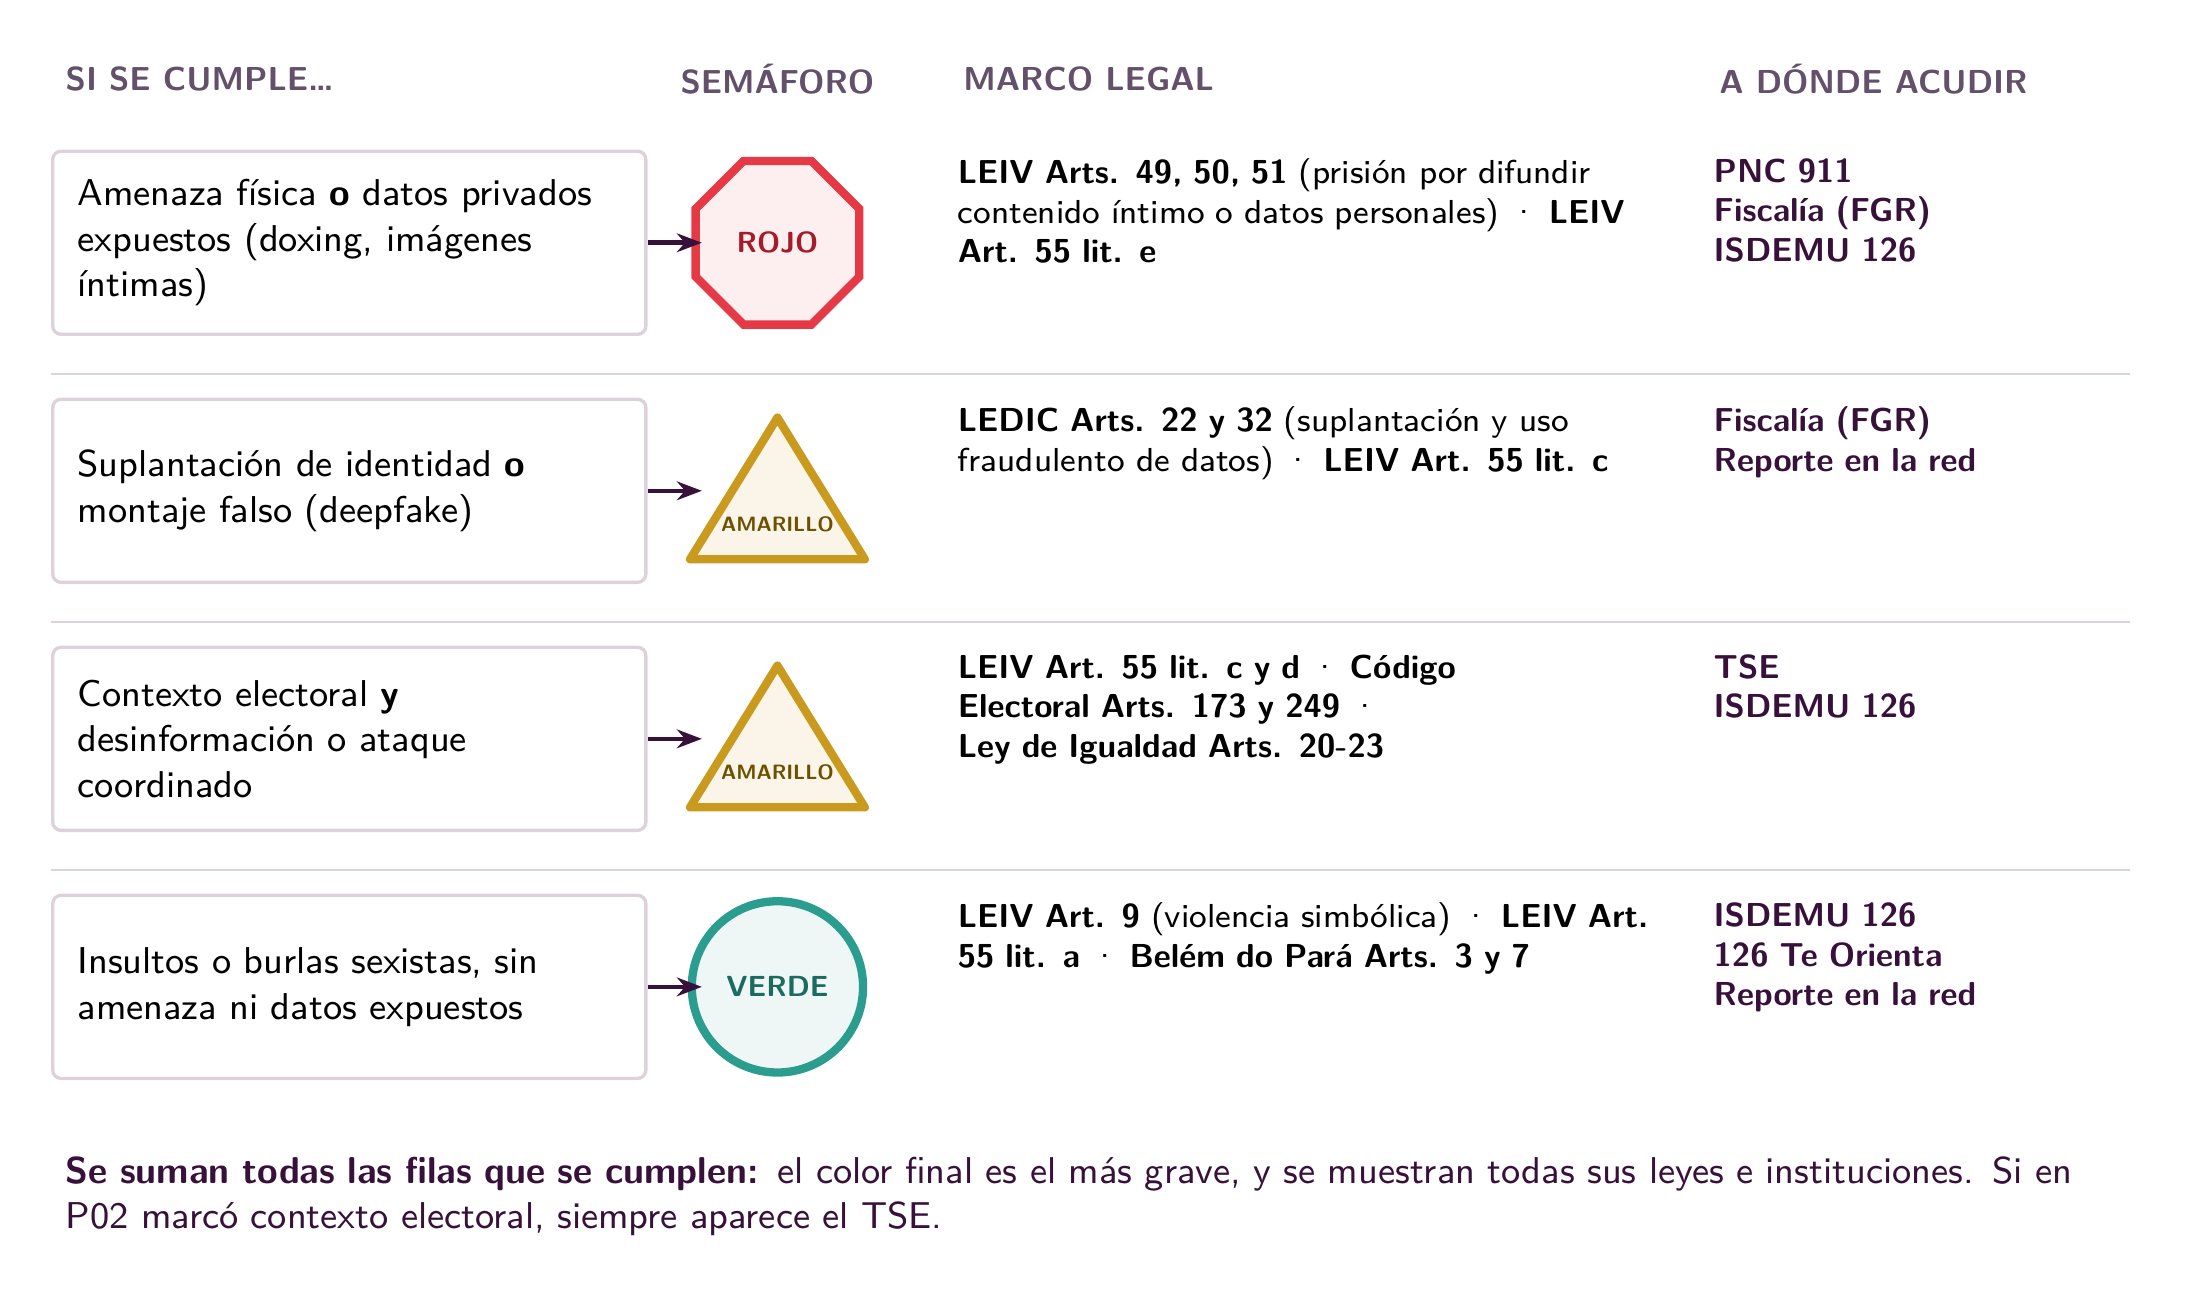
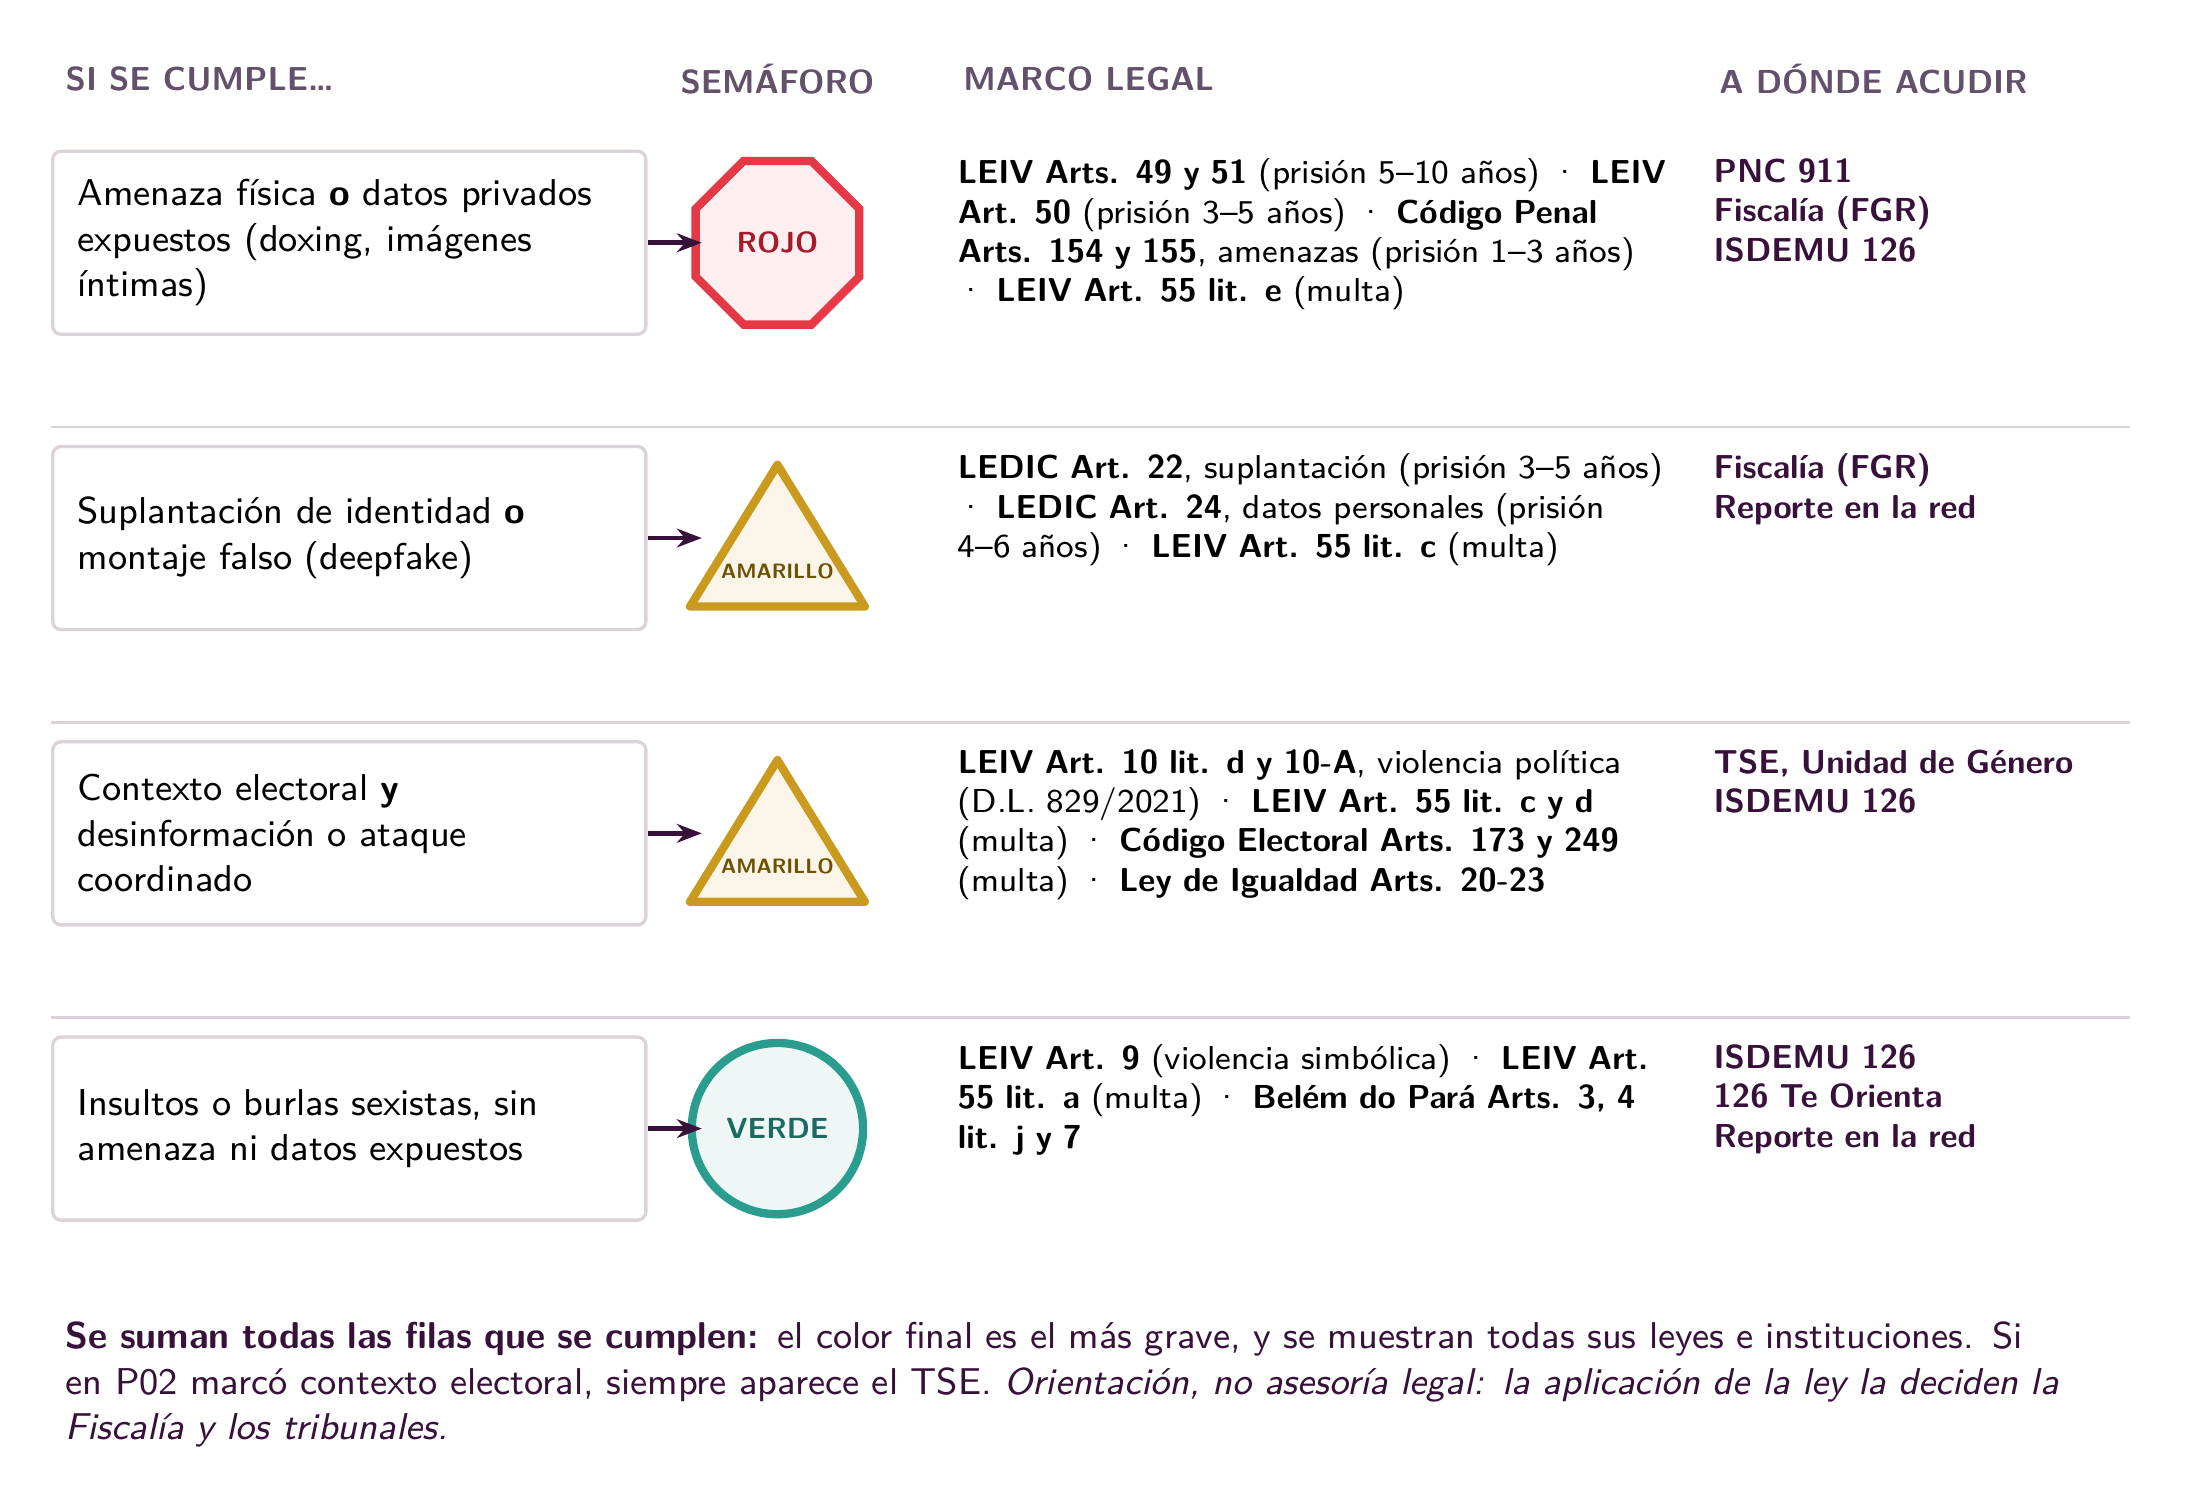
docs(figures): correct legal citations in traffic-light engine diagram

diff --git a/docs/figures/src/motor-semaforo.tex b/docs/figures/src/motor-semaforo.tex
@@ -31,13 +31,13 @@
 \node[head, anchor=west] at (14.0,0.9) {A DÓNDE ACUDIR};
 
 % Rows: y positions
-\def\rowA{0} \def\rowB{-2.1} \def\rowC{-4.2} \def\rowD{-6.3}
+\def\rowA{0} \def\rowB{-2.5} \def\rowC{-5.0} \def\rowD{-7.5}
 
 % Row A: red
 \node[cond, anchor=north west] (ca) at (0,\rowA+0.3) {Amenaza física \textbf{o} datos privados expuestos (doxing, imágenes íntimas)};
 \node[regular polygon, regular polygon sides=8, draw=siwatRed, line width=2pt, fill=siwatRed!8,
   minimum size=1.5cm, font=\scriptsize\bfseries, text=siwatRedText] (la) at (ca.center -| 6.15,0) {ROJO};
-\node[law, anchor=north west] at (7.6,\rowA+0.3) {\textbf{LEIV Arts. 49, 50, 51} (prisión por difundir contenido íntimo o datos personales) · \textbf{LEIV Art. 55 lit. e}};
+\node[law, anchor=north west] at (7.6,\rowA+0.3) {\textbf{LEIV Arts. 49 y 51} (prisión 5--10 años) · \textbf{LEIV Art. 50} (prisión 3--5 años) · \textbf{Código Penal Arts. 154 y 155}, amenazas (prisión 1--3 años) · \textbf{LEIV Art. 55 lit. e} (multa)};
 \node[inst, anchor=north west] at (14.0,\rowA+0.3) {PNC 911\\Fiscalía (FGR)\\ISDEMU 126};
 
 % Row B: yellow (identity)
@@ -45,7 +45,7 @@
 \coordinate (lb) at (cb.center -| 6.15,0);
 \draw[siwatYellow, line width=2pt, fill=siwatYellow!10, line join=round] ($(lb)+(0,0.62)$) -- ($(lb)+(0.74,-0.58)$) -- ($(lb)+(-0.74,-0.58)$) -- cycle;
 \node[font=\tiny\bfseries, text=siwatYellowText] at ($(lb)+(0,-0.28)$) {AMARILLO};
-\node[law, anchor=north west] at (7.6,\rowB+0.3) {\textbf{LEDIC Arts. 22 y 32} (suplantación y uso fraudulento de datos) · \textbf{LEIV Art. 55 lit. c}};
+\node[law, anchor=north west] at (7.6,\rowB+0.3) {\textbf{LEDIC Art. 22}, suplantación (prisión 3--5 años) · \textbf{LEDIC Art. 24}, datos personales (prisión 4--6 años) · \textbf{LEIV Art. 55 lit. c} (multa)};
 \node[inst, anchor=north west] at (14.0,\rowB+0.3) {Fiscalía (FGR)\\Reporte en la red};
 
 % Row C: yellow (electoral)
@@ -53,23 +53,23 @@
 \coordinate (lc) at (cc.center -| 6.15,0);
 \draw[siwatYellow, line width=2pt, fill=siwatYellow!10, line join=round] ($(lc)+(0,0.62)$) -- ($(lc)+(0.74,-0.58)$) -- ($(lc)+(-0.74,-0.58)$) -- cycle;
 \node[font=\tiny\bfseries, text=siwatYellowText] at ($(lc)+(0,-0.28)$) {AMARILLO};
-\node[law, anchor=north west] at (7.6,\rowC+0.3) {\textbf{LEIV Art. 55 lit. c y d} · \textbf{Código Electoral Arts. 173 y 249} · \textbf{\mbox{Ley de Igualdad Arts. 20-23}}};
-\node[inst, anchor=north west] at (14.0,\rowC+0.3) {TSE\\ISDEMU 126};
+\node[law, anchor=north west] at (7.6,\rowC+0.3) {\textbf{LEIV Art. 10 lit. d y 10-A}, violencia política (D.L. 829/2021) · \textbf{LEIV Art. 55 lit. c y d} (multa) · \textbf{Código Electoral Arts. 173 y 249} (multa) · \textbf{\mbox{Ley de Igualdad Arts. 20-23}}};
+\node[inst, anchor=north west] at (14.0,\rowC+0.3) {TSE, Unidad de Género\\ISDEMU 126};
 
 % Row D: green
 \node[cond, anchor=north west] (cd) at (0,\rowD+0.3) {Insultos o burlas sexistas, sin amenaza ni datos expuestos};
 \node[circle, draw=siwatGreen, line width=2pt, fill=siwatGreen!8, minimum size=1.45cm,
   font=\scriptsize\bfseries, text=siwatGreenText] (ld) at (cd.center -| 6.15,0) {VERDE};
-\node[law, anchor=north west] at (7.6,\rowD+0.3) {\textbf{LEIV Art. 9} (violencia simbólica) · \textbf{LEIV Art. 55 lit. a} · \textbf{Belém do Pará Arts. 3 y 7}};
+\node[law, anchor=north west] at (7.6,\rowD+0.3) {\textbf{LEIV Art. 9} (violencia simbólica) · \textbf{LEIV Art. 55 lit. a} (multa) · \textbf{Belém do Pará Arts. 3, 4 lit. j y 7}};
 \node[inst, anchor=north west] at (14.0,\rowD+0.3) {ISDEMU 126\\126 Te Orienta\\Reporte en la red};
 
 \foreach \c in {ca, cb, cc, cd} \draw[link] (\c.east) -- ++(0.46,0);
 
 % Row separators
-\foreach \y in {-1.6,-3.7,-5.8} \draw[siwatEdge, line width=0.6pt] (0,\y) -- (17.6,\y);
+\foreach \y in {-2.05,-4.55,-7.05} \draw[siwatEdge, line width=0.6pt] (0,\y) -- (17.6,\y);
 
 % Combination rule
-\node[anchor=north west, text width=17.4cm, font=\small, text=siwatPlum, align=left] at (0,-8.1)
-  {\textbf{Se suman todas las filas que se cumplen:} el color final es el más grave, y se muestran todas sus leyes e instituciones. Si en P02 marcó contexto electoral, siempre aparece el TSE.};
+\node[anchor=north west, text width=17.4cm, font=\small, text=siwatPlum, align=left] at (0,-9.5)
+  {\textbf{Se suman todas las filas que se cumplen:} el color final es el más grave, y se muestran todas sus leyes e instituciones. Si en P02 marcó contexto electoral, siempre aparece el TSE. \textit{Orientación, no asesoría legal: la aplicación de la ley la deciden la Fiscalía y los tribunales.}};
 \end{tikzpicture}
 \end{document}
